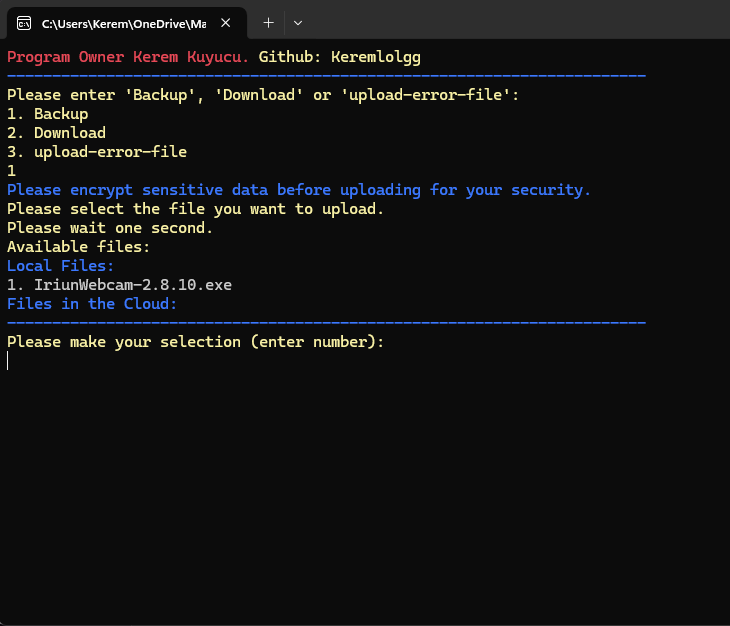
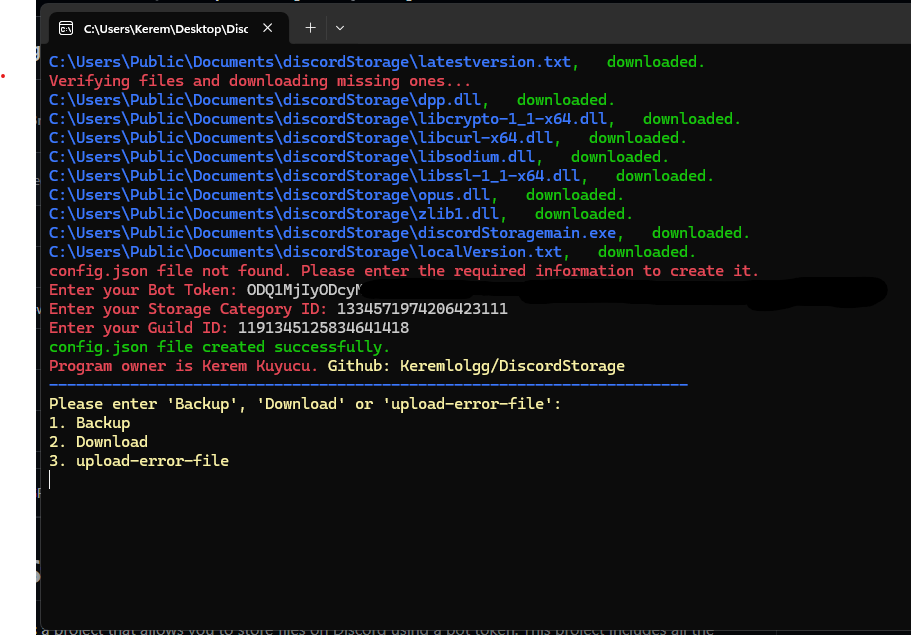
resim değişti

Changed region(s): [[0.0, 0.0, 1.0, 1.0]]

diff --git a/src/app/components/ProjectCard.tsx b/src/app/components/ProjectCard.tsx
@@ -124,8 +124,8 @@ const ProjelerSection: React.FC = () => {
         "Performanslı",
       ],
       featureIcons: [faCheckCircle, faFilePen, faLaptop, faGaugeHigh],
-      viewLink: "https://geogame.keremkk.com.tr",
-      githubLink: "https://keremkk.glitch.me/keremlolgg/geogame",
+      viewLink: "https://keremkk.com.tr/geogame",
+      githubLink: "https://keremkk.glitch.me/KeremKuyucu/geogame",
     },
     {
       imageUrl: "/imgs/pikamed.png",
@@ -141,7 +141,7 @@ const ProjelerSection: React.FC = () => {
       ],
       featureIcons: [faCheckCircle, faFilePen, faLaptop, faGaugeHigh],
       viewLink: "https://pikamed.keremkk.com.tr",
-      githubLink: "https://github.com/keremlolgg/pikamed",
+      githubLink: "https://github.com/KeremKuyucu/pikamed",
     },
     {
       imageUrl: "/imgs/discordstorage.png",
@@ -157,7 +157,7 @@ const ProjelerSection: React.FC = () => {
       ],
       featureIcons: [faCheckCircle, faFilePen, faLaptop, faGaugeHigh],
       viewLink: "#",
-      githubLink: "https://github.com/keremlolgg/DiscordStorage",
+      githubLink: "https://github.com/KeremKuyucu/DiscordStorage",
     },
   ];
 
